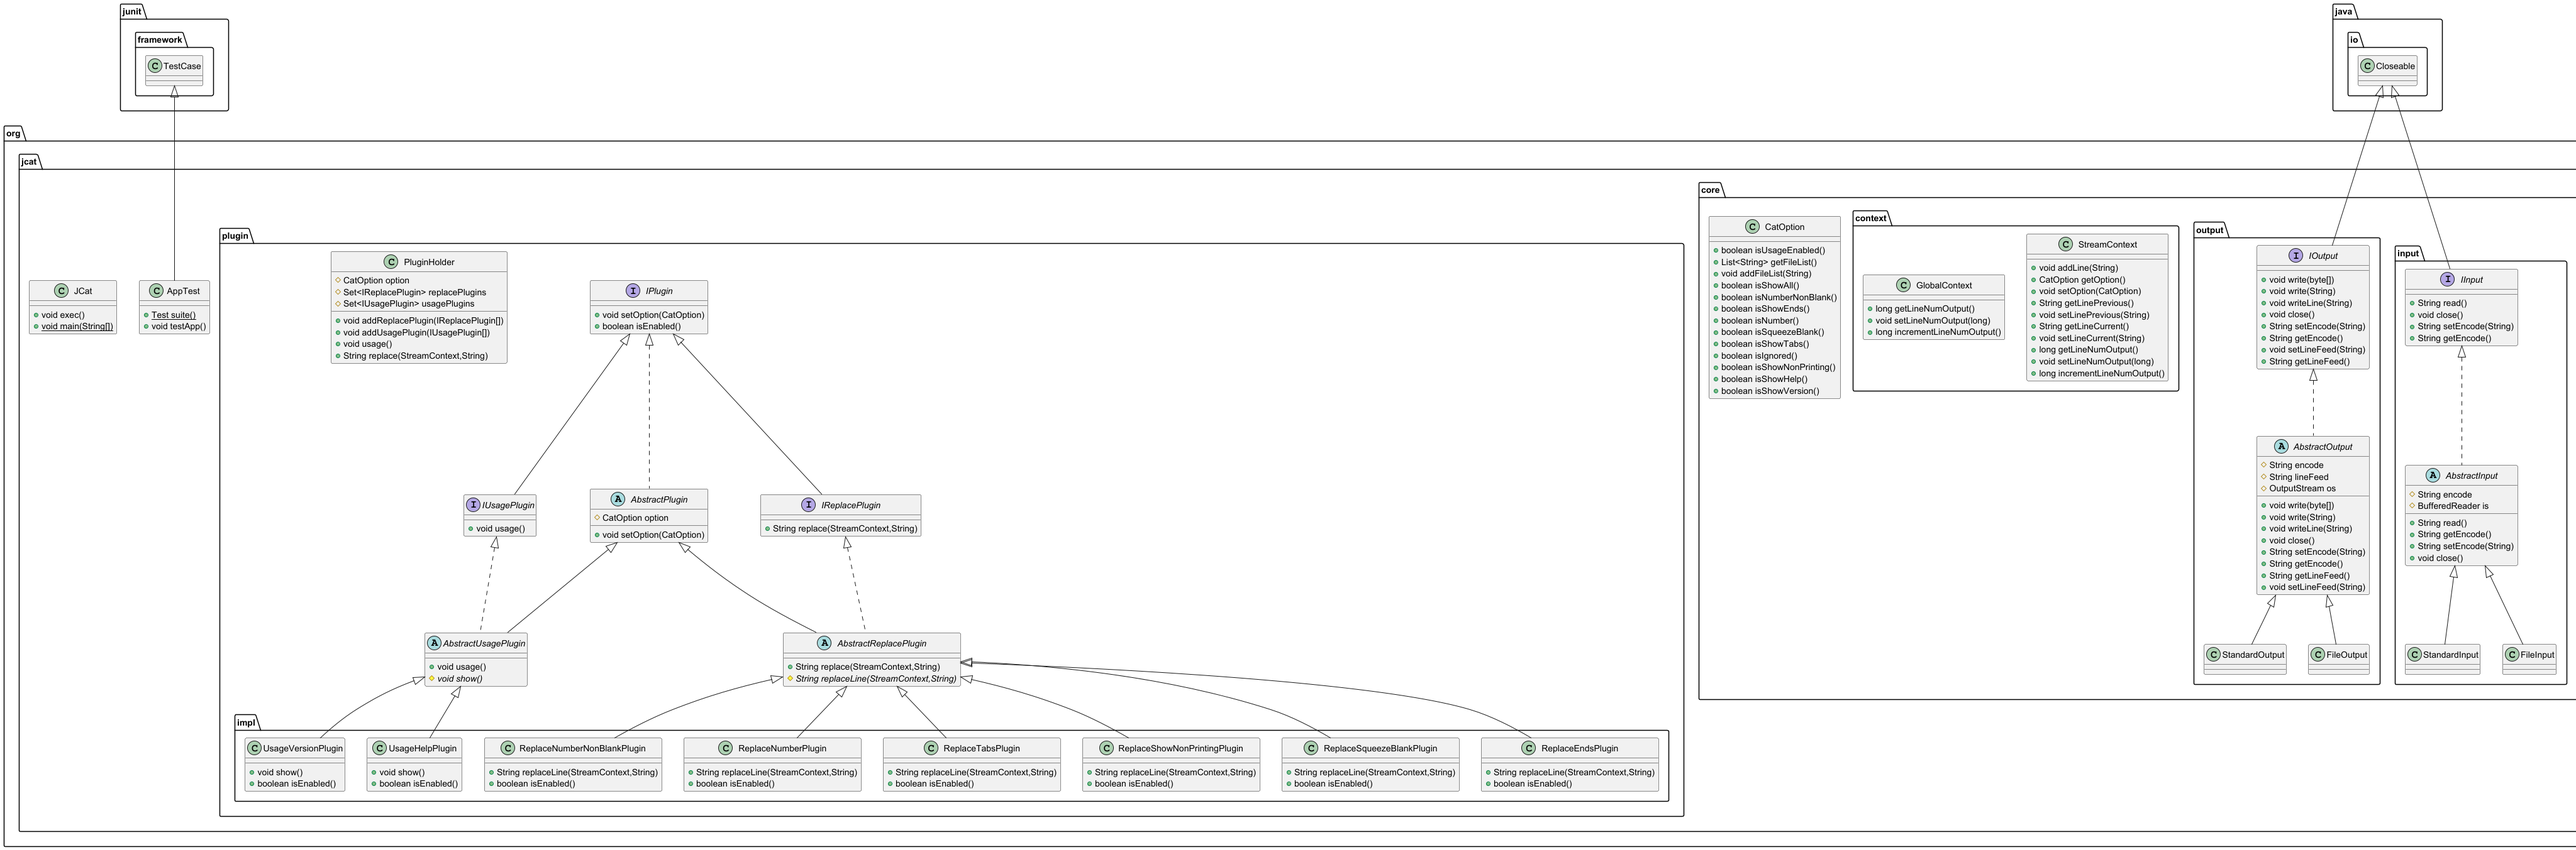
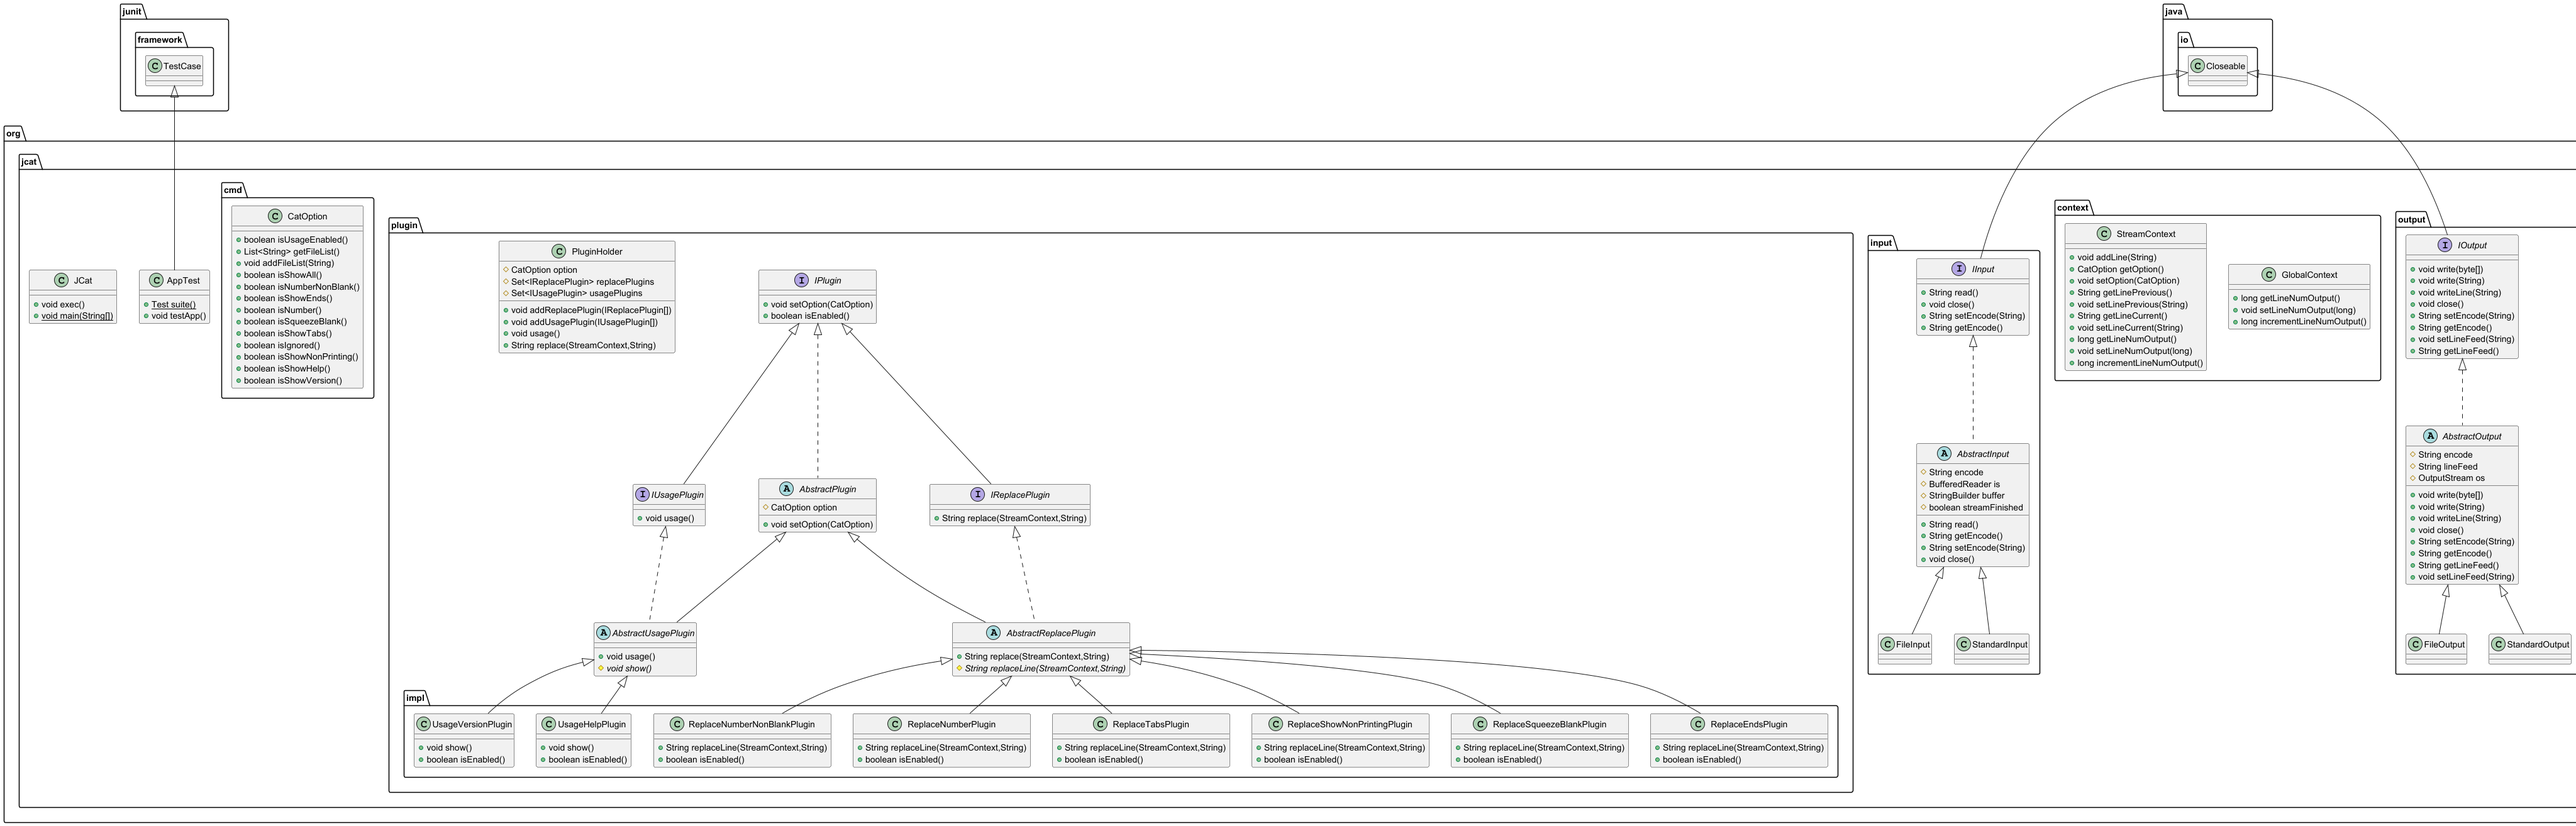
パッケージを移動。 クラス図をアップデート。

diff --git a/src/main/java/org/jcat/JCat.java b/src/main/java/org/jcat/JCat.java
@@ -3,13 +3,13 @@ package org.jcat;
 import java.io.FileNotFoundException;
 import java.io.IOException;
 
-import org.jcat.core.CatOption;
-import org.jcat.core.context.GlobalContext;
-import org.jcat.core.context.StreamContext;
-import org.jcat.core.input.FileInput;
-import org.jcat.core.input.IInput;
-import org.jcat.core.output.IOutput;
-import org.jcat.core.output.StandardOutput;
+import org.jcat.cmd.CatOption;
+import org.jcat.context.GlobalContext;
+import org.jcat.context.StreamContext;
+import org.jcat.input.FileInput;
+import org.jcat.input.IInput;
+import org.jcat.output.IOutput;
+import org.jcat.output.StandardOutput;
 import org.jcat.plugin.IReplacePlugin;
 import org.jcat.plugin.IUsagePlugin;
 import org.jcat.plugin.PluginHolder;

diff --git a/src/main/java/org/jcat/input/FileInput.java b/src/main/java/org/jcat/input/FileInput.java
@@ -1,6 +1,5 @@
-package org.jcat.core.input;
+package org.jcat.input;
 
-import java.io.BufferedReader;
 import java.io.FileNotFoundException;
 import java.io.FileReader;
 import java.io.InputStream;
@@ -13,11 +12,11 @@ public class FileInput extends AbstractInput {
     }
 
     public FileInput(InputStreamReader is) throws FileNotFoundException {
-        super(new BufferedReader(is));
+        super(is);
     }
 
     public FileInput(InputStream is) throws FileNotFoundException {
-        super(new BufferedReader(new InputStreamReader(is)));
+        super(new InputStreamReader(is));
     }
 
     public FileInput(String path) throws FileNotFoundException {

diff --git a/src/main/java/org/jcat/input/AbstractInput.java b/src/main/java/org/jcat/input/AbstractInput.java
@@ -1,7 +1,8 @@
-package org.jcat.core.input;
+package org.jcat.input;
 
 import java.io.BufferedReader;
 import java.io.IOException;
+import java.io.InputStreamReader;
 
 public abstract class AbstractInput implements IInput {
 
@@ -13,8 +14,8 @@ public abstract class AbstractInput implements IInput {
     public AbstractInput() {
     }
 
-    public AbstractInput(BufferedReader is) {
-        this.is = is;
+    public AbstractInput(InputStreamReader is) {
+        this.is = new BufferedReader(is);
     }
 
     /**

diff --git a/src/main/java/org/jcat/input/StandardInput.java b/src/main/java/org/jcat/input/StandardInput.java
@@ -1,12 +1,11 @@
-package org.jcat.core.input;
+package org.jcat.input;
 
-import java.io.BufferedReader;
 import java.io.FileNotFoundException;
 import java.io.InputStreamReader;
 
 public class StandardInput extends AbstractInput {
 
     public StandardInput() throws FileNotFoundException {
-        super(new BufferedReader(new InputStreamReader(System.in)));
+        super(new InputStreamReader(System.in));
     }
 }

diff --git a/src/main/java/org/jcat/plugin/impl/ReplaceShowNonPrintingPlugin.java b/src/main/java/org/jcat/plugin/impl/ReplaceShowNonPrintingPlugin.java
@@ -4,7 +4,7 @@ import java.io.ByteArrayInputStream;
 import java.io.IOException;
 import java.io.InputStream;
 
-import org.jcat.core.context.StreamContext;
+import org.jcat.context.StreamContext;
 import org.jcat.plugin.AbstractReplacePlugin;
 
 public class ReplaceShowNonPrintingPlugin extends AbstractReplacePlugin {

diff --git a/src/main/java/org/jcat/plugin/PluginHolder.java b/src/main/java/org/jcat/plugin/PluginHolder.java
@@ -4,8 +4,8 @@ import java.util.Arrays;
 import java.util.LinkedHashSet;
 import java.util.Set;
 
-import org.jcat.core.CatOption;
-import org.jcat.core.context.StreamContext;
+import org.jcat.cmd.CatOption;
+import org.jcat.context.StreamContext;
 
 /**
  * 下記オプション未対応。

diff --git a/src/main/java/org/jcat/plugin/impl/ReplaceTabsPlugin.java b/src/main/java/org/jcat/plugin/impl/ReplaceTabsPlugin.java
@@ -2,7 +2,7 @@ package org.jcat.plugin.impl;
 
 import java.util.regex.Pattern;
 
-import org.jcat.core.context.StreamContext;
+import org.jcat.context.StreamContext;
 import org.jcat.plugin.AbstractReplacePlugin;
 
 public class ReplaceTabsPlugin extends AbstractReplacePlugin {

diff --git a/src/main/java/org/jcat/plugin/impl/ReplaceSqueezeBlankPlugin.java b/src/main/java/org/jcat/plugin/impl/ReplaceSqueezeBlankPlugin.java
@@ -1,6 +1,6 @@
 package org.jcat.plugin.impl;
 
-import org.jcat.core.context.StreamContext;
+import org.jcat.context.StreamContext;
 import org.jcat.plugin.AbstractReplacePlugin;
 
 public class ReplaceSqueezeBlankPlugin extends AbstractReplacePlugin {

diff --git a/src/main/java/org/jcat/plugin/impl/ReplaceEndsPlugin.java b/src/main/java/org/jcat/plugin/impl/ReplaceEndsPlugin.java
@@ -1,6 +1,6 @@
 package org.jcat.plugin.impl;
 
-import org.jcat.core.context.StreamContext;
+import org.jcat.context.StreamContext;
 import org.jcat.plugin.AbstractReplacePlugin;
 
 public class ReplaceEndsPlugin extends AbstractReplacePlugin {

diff --git a/src/main/java/org/jcat/plugin/IReplacePlugin.java b/src/main/java/org/jcat/plugin/IReplacePlugin.java
@@ -1,6 +1,6 @@
 package org.jcat.plugin;
 
-import org.jcat.core.context.StreamContext;
+import org.jcat.context.StreamContext;
 
 public interface IReplacePlugin extends IPlugin {
     public String replace(StreamContext context, String src);

diff --git a/src/main/java/org/jcat/plugin/AbstractReplacePlugin.java b/src/main/java/org/jcat/plugin/AbstractReplacePlugin.java
@@ -1,6 +1,6 @@
 package org.jcat.plugin;
 
-import org.jcat.core.context.StreamContext;
+import org.jcat.context.StreamContext;
 
 public abstract class AbstractReplacePlugin extends AbstractPlugin implements IReplacePlugin {
 

diff --git a/src/main/java/org/jcat/context/StreamContext.java b/src/main/java/org/jcat/context/StreamContext.java
@@ -1,6 +1,6 @@
-package org.jcat.core.context;
+package org.jcat.context;
 
-import org.jcat.core.CatOption;
+import org.jcat.cmd.CatOption;
 
 public class StreamContext {
     private CatOption option;
